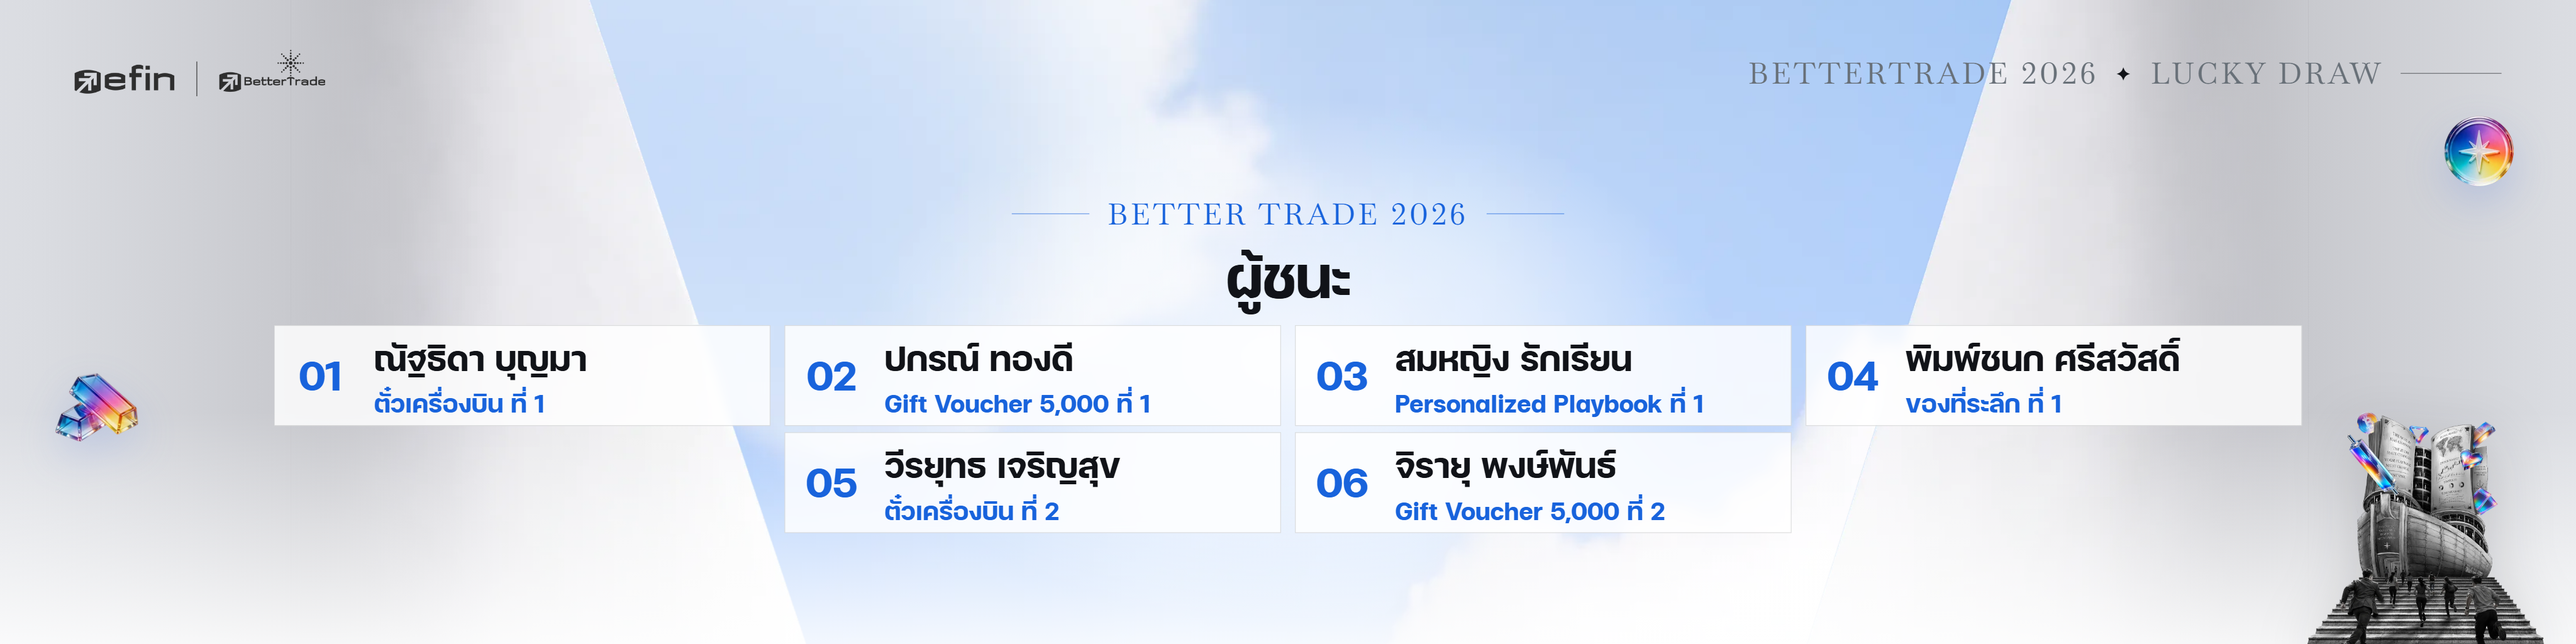
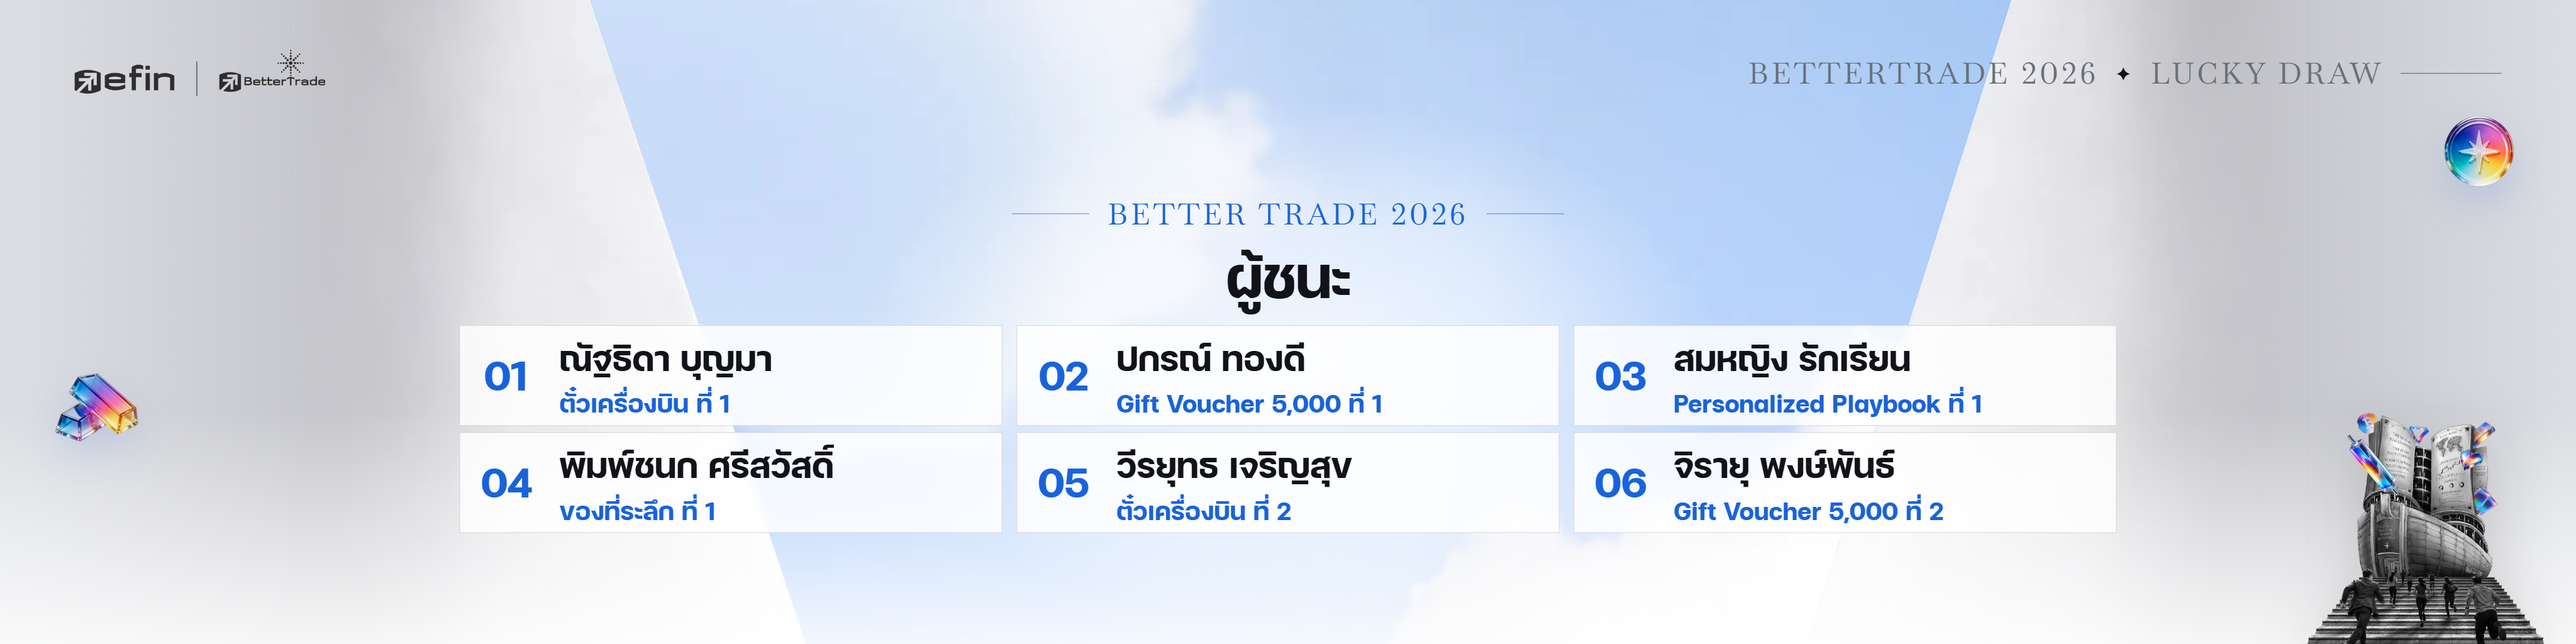
Winners board: at most 3 cards per row
- Main Stage A/B: 3 tiles per row (700px, grid 2136px), 12 winners in 4 rows; C shows the latest 3 prize groups
- Mini Stage C shows the latest 3 prize groups (wider cards, nothing clipped); A/B were already 3 per row
- Board scene uses safe centring so a tall block starts under the logo row and is shrunk by fitBoard instead of overflowing upward
- Regenerate previews

Changed region(s): [[0.0938, 0.5, 0.9062, 0.8125]]

diff --git a/show-screen.html b/show-screen.html
@@ -60,7 +60,7 @@
   body.screen-main .el.candle{left:-200px;top:200px}   /* bar centred between the far gold bars (~-510) and the name's left edge (~360) */
   body.screen-main .el.chest{left:77px;bottom:70px}   /* centred between the bar chart (~-75) and the near diamond (~400) */
   body.screen-main .el.gift{right:auto;left:1560px;top:150px;width:170px}   /* below the corner label, which is larger on Main Stage */
-  body.screen-main .ship{right:-660px;height:300px}   /* just outside the 4 x 640 board so it never has to shrink */
+  body.screen-main .ship{right:-660px;height:300px}   /* right zone, clear of the board */
   body.screen-main .el.efin{right:auto;bottom:auto;left:1680px;top:640px;width:120px}
   /* the 4-column board fills the sky, so the mid and near pieces step aside there (far pieces and the ship stay) */
   .el,.wing-el{transition:opacity .6s}
@@ -168,7 +168,8 @@
   /* board */
   /* the ship keeps one size and place everywhere, so the board is compact and top-anchored: its grid ends above the ship's top (fitBoard checks it) */
   /* the block is centred in the free band between the logo row and the ship (padding set by fitBoard) */
-  .scene.board{justify-content:center;padding:118px 0 24px}
+  /* safe center: a block taller than the band starts under the logo row (fitBoard then shrinks the grid) instead of overflowing upward */
+  .scene.board{justify-content:safe center;padding:118px 0 24px}
   .board h2{font-size:100px;margin:4px 0 10px}
   /* 3 columns x up to 4 rows (12 winners); names and prizes are sized for reading from far away */
   .grid{display:flex;flex-wrap:wrap;justify-content:center;gap:8px 18px;max-width:1596px;transform-origin:top center}
@@ -187,7 +188,7 @@
   .grid.ranked .tile b{font-size:44px;font-weight:700}
   /* C: one glass column per prize, winners listed under the prize name */
   .groups{display:flex;gap:18px;justify-content:center;align-items:flex-start;width:1596px}
-  .group{flex:1 1 0;min-width:0;max-width:540px;text-align:left;background:rgba(255,255,255,.82);border:1px solid var(--line);backdrop-filter:blur(6px)}
+  .group{flex:1 1 0;min-width:0;max-width:none;text-align:left;background:rgba(255,255,255,.82);border:1px solid var(--line);backdrop-filter:blur(6px)}
   .group header{padding:14px 20px 12px;border-bottom:1px solid var(--line)}
   .group header b{display:block;font-size:40px;font-weight:700;line-height:1.2;color:var(--blue-ink);white-space:nowrap;overflow:hidden;text-overflow:ellipsis}
   .group header small{display:block;margin-top:2px;font-size:28px;font-weight:700;color:var(--ink-2)}
@@ -246,13 +247,14 @@
   body.screen-main .idle p,body.screen-main .drawing .sub,body.screen-main .who .meta,body.screen-main .board .empty,body.screen-main .redraw p{font-size:64px;font-weight:700}
   body.screen-main .prize .qty{font-size:64px}
   body.screen-main .prize .qty b{font-size:140px}
-  /* board names: bigger, so the tiles get wider (4 x 640 + gaps = 2614, inside the 3320 canvas) */
-  body.screen-main .tile{width:640px}
+  /* board names: bigger, so the tiles get wider (3 x 700 per row) */
+  body.screen-main .tile{width:700px}
   body.screen-main .tile img{width:72px}
   body.screen-main .tile b{font-size:56px}
   body.screen-main .tile .rank{font-size:72px;width:104px}
   body.screen-main .grid.ranked .tile b{font-size:60px}
-  body.screen-main .grid,body.screen-main .groups{width:2614px}
+  /* Main Stage: at most 3 tiles / prize groups per row (3 x 700 + 2 x 18 = 2136) */
+  body.screen-main .grid,body.screen-main .groups{width:2136px}
   body.screen-main .group{max-width:none}
   body.screen-main .group li b{font-size:56px}
   /* reveal: a wider name column so long names shrink less */
@@ -561,7 +563,7 @@ function showBoard(st){
     grid.className = "";
     grid.innerHTML = `<p class="empty">ยังไม่มีผู้ได้รับรางวัล</p>`;
   } else if(boardStyle === "C"){
-    // group by prize in the order prizes were first drawn; keep the latest 4 groups
+    // group by prize in the order prizes were first drawn; keep the latest 3 groups (one row, at most 3 per row on both screens)
     const groups = [];
     for(const w of list){
       let g = groups.find(x => x.prize === w.prize);
@@ -569,7 +571,7 @@ function showBoard(st){
       g.people.push(w);
     }
     grid.className = "groups";
-    grid.innerHTML = groups.slice(-4).map(g => {
+    grid.innerHTML = groups.slice(-3).map(g => {
       const qty = (D.PRIZES.find(p => p.name === g.prize) || {}).qty;
       return `<section class="group${g.people.length > 5 ? " many" : ""}"><header><b>${esc(g.prize)}</b><small>ผู้โชคดี<em>${g.people.length}</em>${qty ? `จาก ${qty} ` : ""}รางวัล</small></header>
         <ol>${g.people.map(w => `<li><i>ที่ ${w.no}</i><b>${esc(nm(w.n))}</b></li>`).join("")}</ol></section>`;
